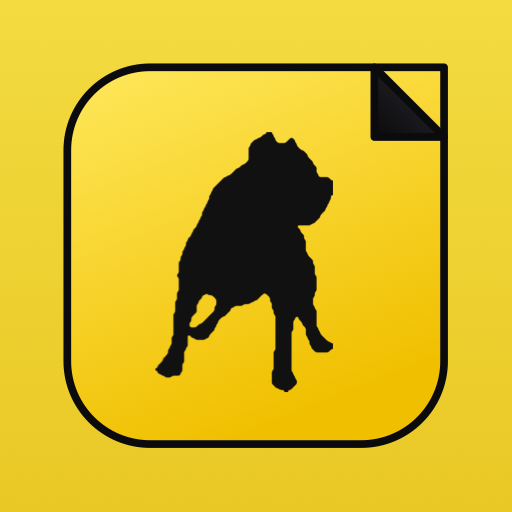
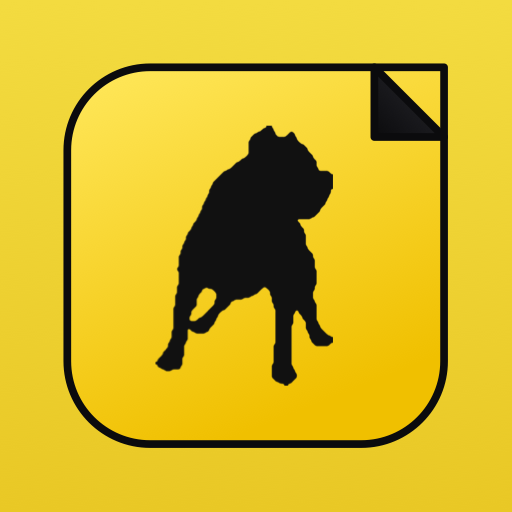
Centre the dog in the tile
He is right that it sat low: 17.2 units of space above him against 13.8
below.

It was deliberate once. The note under it argued the turned corner takes
visual weight out of the top right, so the dog should hang a little low
to compensate — and that held while the mark was a stack of three sheets
with a fold nearly a quarter of the tile wide. One page and a smaller
fold later there is nothing left to compensate for, and the compensation
is all anyone sees.

Centred by arithmetic off DOG_H rather than by a new fixed number, so it
cannot drift again the next time he is resized.

Horizontally he stays about three units left of centre, because that one
IS from the operator's own drawing: the fold is top right, and the dog
leaning back against it is what stops the tile looking like it is
falling that way.

diff --git a/src/apps/dialer/PagesMark.tsx b/src/apps/dialer/PagesMark.tsx
@@ -129,19 +129,28 @@ function foldPath(): string {
 }
 
 /**
- * Biggie is 355x520, placed to match the operator's own mark rather than to my
- * taste — his file is public/icons/beasty-pages-mark.png and these are measured
- * off it: 23.4% to 70.7% across, 17.2% to 86.4% down. That height at Biggie's
- * aspect gives 47.1 wide against the 47.3 measured off his art, which is the
- * confirmation the numbers are read and not guessed.
+ * Biggie is 355x520 and fills his frame edge to edge — no transparent margin
+ * to account for, so where he sits is purely these numbers.
  *
- * Proportions of a SHEET, not of the mark, so he keeps his place on the front
- * page now that the page is smaller than the whole drawing.
+ * His width and height come from the operator's own mark: 23.4% to 70.7%
+ * across, 69 tall, which at Biggie's aspect gives 47.1 wide against the 47.3
+ * measured off that file. Read rather than guessed.
+ *
+ * VERTICALLY CENTRED, though, which his file was not and this was not until
+ * now. It sat at 17.2% down with a note arguing the turned corner takes weight
+ * out of the top right so the dog should hang a little low to compensate. That
+ * held while the mark was a stack with a large fold; with one page and a small
+ * fold there is nothing left to compensate for, and it measured 17.2 above
+ * against 13.8 below — visibly low, which is what he spotted. Centring is now
+ * arithmetic off DOG_H so it cannot drift again if the dog is ever resized.
  */
 const DOG_H = FRONT.size * 0.69
 const DOG_W = (DOG_H * 355) / 520
+/* Left of centre by about three units, which IS from his drawing and stays:
+   the fold sits top right, and the dog leaning back against it is what keeps
+   the tile from looking like it is falling that way. */
 const DOG_X = FRONT.x + FRONT.size * 0.234
-const DOG_Y = FRONT.y + FRONT.size * 0.172
+const DOG_Y = FRONT.y + (FRONT.size - DOG_H) / 2
 
 export function PagesMark({ className }: { className?: string }) {
   return (
